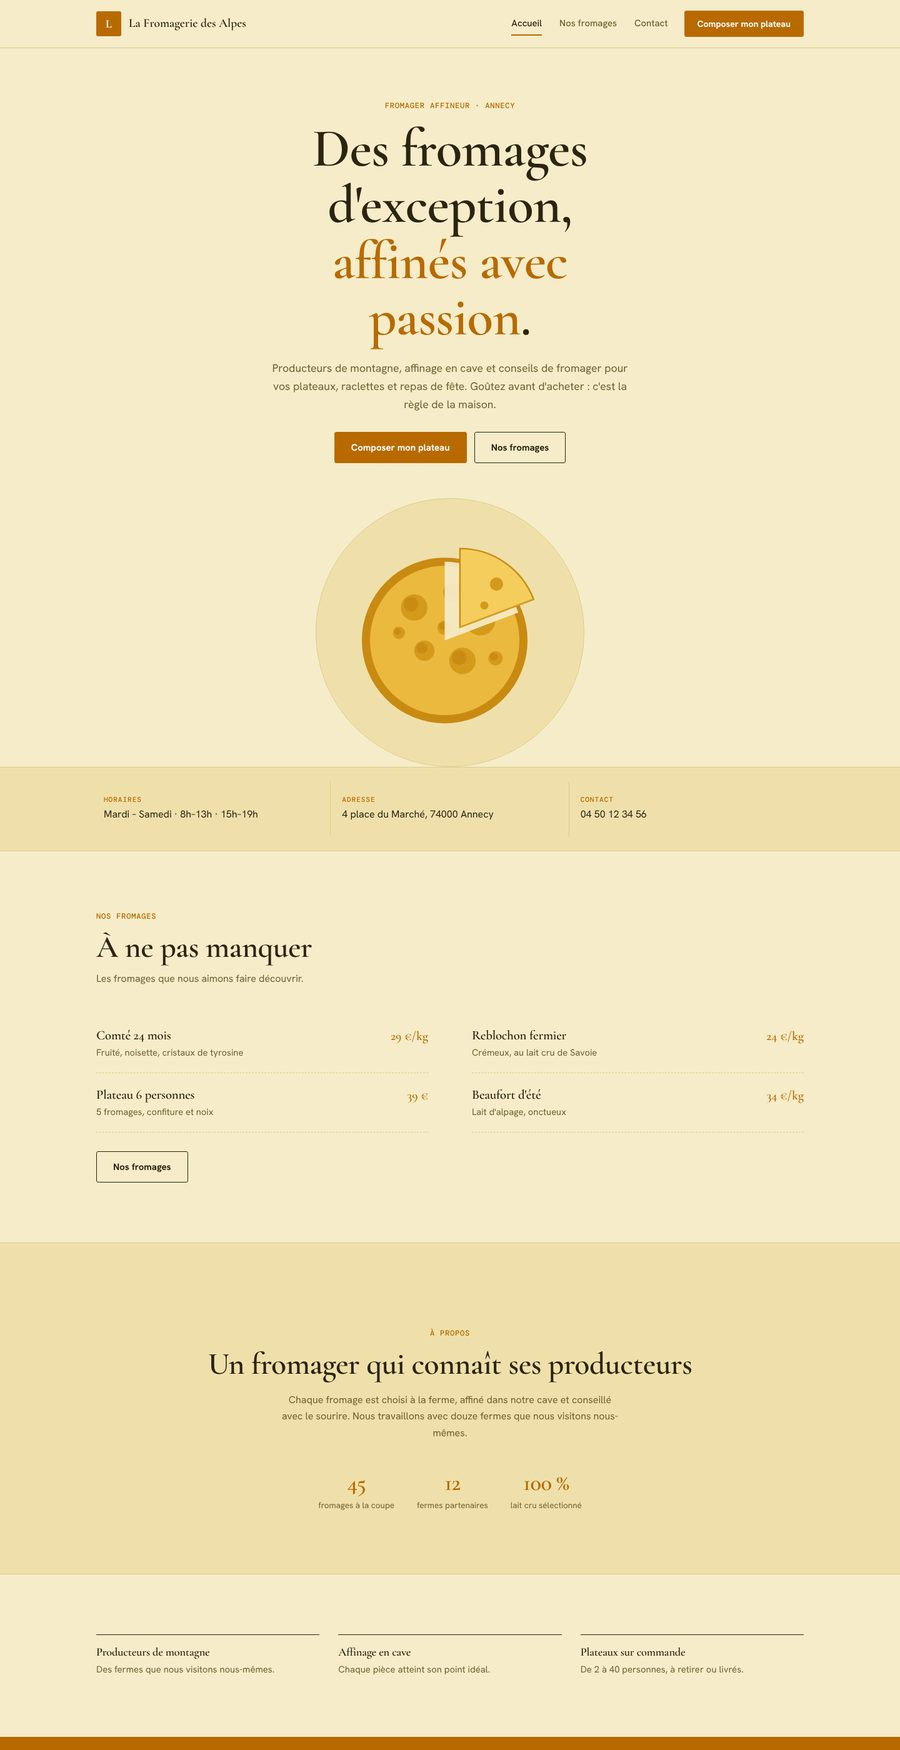
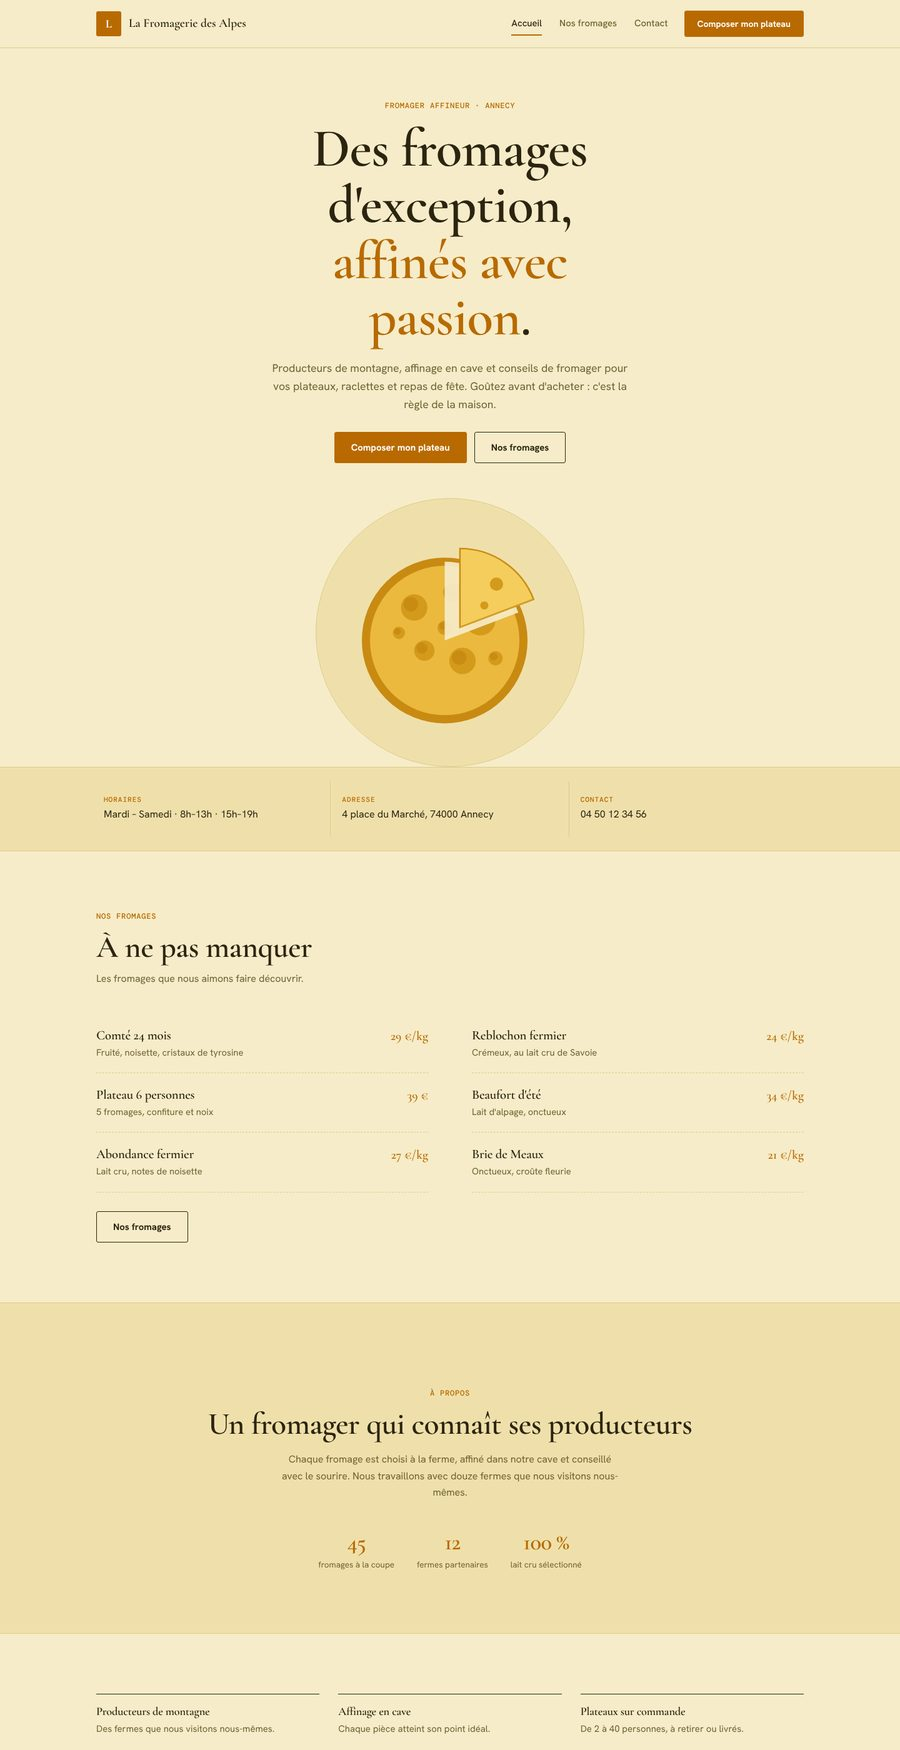
Emplacements photo visibles (« Photo à ajouter ») pour pizzeria, restaurant, boucherie, fromagerie ; 6 produits mis en avant
Claude-Session: https://claude.ai/code/session_013poPzFdebV94WyDMGSKDAV

Changed region(s): [[0.0, 0.648, 1.0, 1.0], [0.5289, 0.648, 0.6222, 0.6789]]

diff --git a/lt-digital/demos/_engine.js b/lt-digital/demos/_engine.js
@@ -40,7 +40,7 @@ const money = p => esc(p);
 function home(){
   const H = S.home, L = T.layout||"A";
   let feat = items.filter(i=>i.star); if (!feat.length) feat = S.offers.cats.map(c=>c.items[0]).filter(Boolean).map(i=>({...i}));
-  const want = L==="B"?4:3;
+  const want = S.offers.images ? 6 : (L==="B"?4:3);
   if (feat.length<want) items.forEach(i=>{ if(feat.length<want && !feat.includes(i)) feat.push(i); });
   feat = feat.slice(0, want);
   const hl = feat.map((it,i)=>`<a class="card rv${hp(it)}" href="${q(it.name)}">${pic(it)}${it.tag?`<span class="tagc">${esc(it.tag)}</span>`:`<span class="n">${String(i+1).padStart(2,"0")}</span>`}<h3>${esc(it.name)}</h3><p>${esc(it.desc)}</p><span class="pr">${money(it.price)}</span></a>`).join("");
@@ -86,12 +86,16 @@ const hd = document.getElementById("hd"); const sc = ()=>hd.classList.toggle("sc
 document.getElementById("bg").onclick = ()=>document.getElementById("nl").classList.toggle("open");
 const fm = document.getElementById("fm"); if (fm) fm.addEventListener("submit",e=>{ e.preventDefault(); document.getElementById("ok").hidden=false; fm.querySelector("button").disabled=true; });
 /* photo introuvable : on retire la case (le site reste propre tant qu'il n'y a pas de photo) */
+const CLEAN = /[?&]clean/.test(location.search), PH = S.offers.placeholders !== false && !CLEAN;
+const CAM = '<svg viewBox="0 0 48 48" aria-hidden="true"><path d="M6 15h9l3-5h12l3 5h9v24H6z" fill="none" stroke="currentColor" stroke-width="2.4" stroke-linejoin="round"/><circle cx="24" cy="26" r="7.5" fill="none" stroke="currentColor" stroke-width="2.4"/></svg>';
 function dropPic(im){ const p = im.closest(".pic"); if(!p) return; const holder = p.closest(".mc,.it,.card");
+  if (PH){ const a = document.createElement("a"); a.className = "pic empty"; a.href = "../photos.html"; a.target = "_blank"; a.rel = "noopener"; a.title = "Ajouter la photo de ce produit";
+    a.innerHTML = `${CAM}<b>Photo à ajouter</b><span>Ajoute ta vraie photo ici</span>`; p.replaceWith(a); return; }
   if (holder && holder.classList.contains("mc")){ holder.remove(); const mo = document.querySelector(".mosaic"); if (mo && !mo.children.length) mo.outerHTML = visual(); }
   else if (holder) holder.classList.remove("has-pic"); p.remove(); }
 document.querySelectorAll(".pic img").forEach(im=>{ im.addEventListener("error",()=>dropPic(im)); if (im.complete && !im.naturalWidth) dropPic(im); });
 /* agrandir une photo produit */
-document.addEventListener("click",ev=>{ const p=ev.target.closest(".pic"); if(!p||ev.target.closest("a.go")) return; ev.preventDefault();
+document.addEventListener("click",ev=>{ const p=ev.target.closest(".pic"); if(!p||p.classList.contains("empty")||ev.target.closest("a.go")) return; ev.preventDefault();
   const card=p.closest(".it,.card"), name=card&&card.querySelector("h3")?(card.querySelector("h3").firstChild.textContent||"").trim():"";
   const ov=document.createElement("div"); ov.className="zoom"; ov.innerHTML=`<div class="zoom-in">${p.innerHTML}<p>${esc(name)}</p><button type="button">Fermer</button></div>`; document.body.appendChild(ov);
   const close=()=>{ ov.remove(); document.removeEventListener("keydown",kd); }; const kd=e=>{ if(e.key==="Escape") close(); };

diff --git a/lt-digital/demos/_engine.css b/lt-digital/demos/_engine.css
@@ -174,3 +174,8 @@ em.a{font-style:normal;color:var(--acc)}
 .L-B .it.has-pic,.L-B .card.has-pic{grid-template-columns:150px 1fr auto}
 @media(max-width:960px){.mosaic{margin:0 auto;max-width:420px}.L-B .mosaic{grid-template-columns:1fr 1fr;max-width:420px}.L-B .mosaic .mc:nth-child(even){margin-top:20px}}
 @media(max-width:560px){.L-B .it.has-pic,.L-B .card.has-pic{grid-template-columns:96px 1fr auto}}
+
+.pic.empty{display:flex;flex-direction:column;align-items:center;justify-content:center;gap:6px;text-align:center;cursor:pointer;color:var(--mut);border:2px dashed var(--line);background:repeating-linear-gradient(135deg,transparent 0 12px,color-mix(in srgb,var(--line) 45%,transparent) 12px 13px),var(--bg2);transition:border-color .2s,color .2s}
+.pic.empty svg{width:34px;height:34px;transform:none!important}.pic.empty b{font:600 .9rem var(--bf);color:var(--ink)}.pic.empty span{font-size:.76rem}
+.pic.empty:hover{border-color:var(--acc);color:var(--acc)}
+.has-pic:hover .pic.empty svg{transform:none}

diff --git a/lt-digital/demos/photographe/site.js b/lt-digital/demos/photographe/site.js
@@ -79,6 +79,7 @@ window.SITE = {
     "intro": "Chaque séance est préparée avec vous. Photos retouchées livrées en galerie privée sous 15 jours.",
     "images": false,
     "illustrations": false,
+    "placeholders": false,
     "cats": [
       {
         "name": "Portrait & famille",

diff --git a/lt-digital/demos/fromagerie/site.js b/lt-digital/demos/fromagerie/site.js
@@ -79,6 +79,7 @@ window.SITE = {
     "intro": "Une quarantaine de fromages à la coupe, selon la saison et nos visites chez les producteurs.",
     "images": true,
     "illustrations": false,
+    "placeholders": true,
     "cats": [
       {
         "name": "Pâtes dures et pressées",

diff --git a/lt-digital/demos/esthetique/site.js b/lt-digital/demos/esthetique/site.js
@@ -79,6 +79,7 @@ window.SITE = {
     "intro": "Chaque soin commence par un échange pour comprendre vos besoins. Réservation en ligne ou par téléphone.",
     "images": false,
     "illustrations": false,
+    "placeholders": false,
     "cats": [
       {
         "name": "Visage",

diff --git a/lt-digital/demos/artisan/site.js b/lt-digital/demos/artisan/site.js
@@ -79,6 +79,7 @@ window.SITE = {
     "intro": "Chaque projet est dessiné, fabriqué dans l'atelier et posé par nos soins. Devis gratuit sous 48 h.",
     "images": false,
     "illustrations": false,
+    "placeholders": false,
     "cats": [
       {
         "name": "Agencement",

diff --git a/lt-digital/demos/boutique/site.js b/lt-digital/demos/boutique/site.js
@@ -79,6 +79,7 @@ window.SITE = {
     "intro": "Toutes nos bougies sont coulées à la main, en petites séries, avec une mèche en coton.",
     "images": false,
     "illustrations": false,
+    "placeholders": false,
     "cats": [
       {
         "name": "Bougies parfumées",

diff --git a/lt-digital/demos/restaurant/site.js b/lt-digital/demos/restaurant/site.js
@@ -79,6 +79,7 @@ window.SITE = {
     "intro": "La carte change chaque mois selon les arrivages. Les plats sont cuisinés sur place, tous les jours.",
     "images": true,
     "illustrations": false,
+    "placeholders": true,
     "cats": [
       {
         "name": "Entrées",

diff --git a/lt-digital/demos/boucherie/site.js b/lt-digital/demos/boucherie/site.js
@@ -79,6 +79,7 @@ window.SITE = {
     "intro": "Toute la viande est française et traçable. Dites-nous l'épaisseur, on découpe devant vous.",
     "images": true,
     "illustrations": false,
+    "placeholders": true,
     "cats": [
       {
         "name": "Bœuf & veau",

diff --git a/lt-digital/demos/tatoueur/site.js b/lt-digital/demos/tatoueur/site.js
@@ -79,6 +79,7 @@ window.SITE = {
     "intro": "Les prix sont indicatifs : le devis final dépend de la taille, du détail et de l'emplacement.",
     "images": false,
     "illustrations": false,
+    "placeholders": false,
     "cats": [
       {
         "name": "Styles",

diff --git a/lt-digital/demos/fleuriste/site.js b/lt-digital/demos/fleuriste/site.js
@@ -79,6 +79,7 @@ window.SITE = {
     "intro": "Chaque bouquet est composé à la main le jour même. Livraison à Bordeaux et alentours.",
     "images": false,
     "illustrations": false,
+    "placeholders": false,
     "cats": [
       {
         "name": "Bouquets",

diff --git a/lt-digital/demos/garage/site.js b/lt-digital/demos/garage/site.js
@@ -79,6 +79,7 @@ window.SITE = {
     "intro": "Tarifs affichés, devis avant travaux et pièces de qualité équivalente ou d'origine.",
     "images": false,
     "illustrations": false,
+    "placeholders": false,
     "cats": [
       {
         "name": "Entretien",
